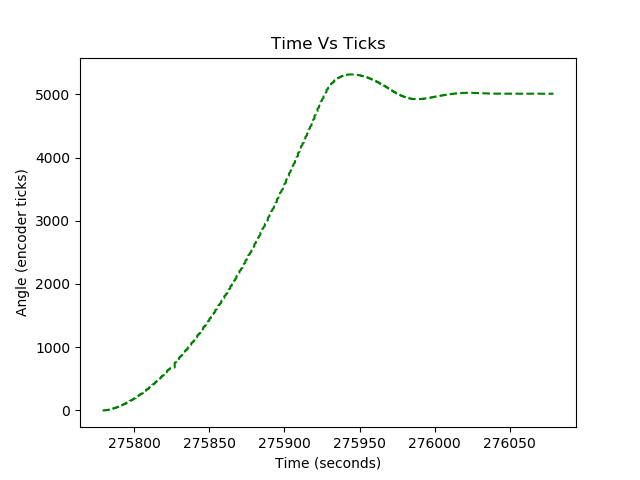
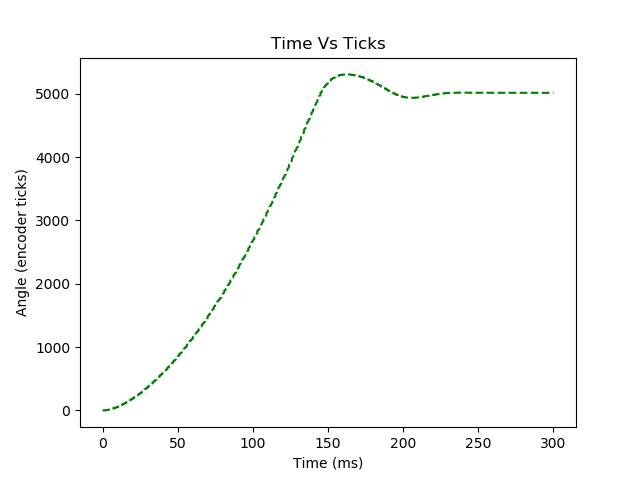
graphs

diff --git a/controller.py b/controller.py
@@ -35,6 +35,7 @@ class Controller:
         self._setpoint= setpoint
         self._time_list = []
         self._pos_list = []
+        self._start_time = int(utime.ticks_ms())
         
           
     ## Computes the actuation signal to be sent to the motor driver
@@ -45,8 +46,8 @@ class Controller:
     def calculate(self, position):
         
         # compute error and output
-        self._error = self.setpoint - position
-        self._output = self.kp * self._error
+        self._error = self._setpoint - position
+        self._output = self._kp * self._error
 
         # saturation
         if (self._output > 100) :
@@ -54,7 +55,7 @@ class Controller:
         elif (self._output < -100) :
             self._output = -100
 
-        self._time_list.append(int(utime.ticks_ms()))
+        self._time_list.append(int(utime.ticks_ms()) - self._start_time)
         self._pos_list.append(position)
 
         return self._output
@@ -89,6 +90,7 @@ class Controller:
 
         self._time_list = []
         self._pos_list = []
+        self._start_time = int(utime.ticks_ms())
 
 
 

diff --git a/main.py b/main.py
@@ -24,6 +24,7 @@ def main():
             start_time = utime.ticks_ms()
             encoder1.zero()
             control.clear_list()
+            control.clear_list()
             while (start_time + control_duration) > utime.ticks_ms():
                 pwm = control.calculate(encoder1.get_position())
                 motor1.set_duty_cycle(pwm)
@@ -32,6 +33,7 @@ def main():
             control.clear_list()
             print("end")
         elif (key_float):
+            control.clear_list()
             print("setting gain to: " + str(key_float))
             print("end")
             control.set_gain(key_float)

diff --git a/serial_test.py b/serial_test.py
@@ -52,7 +52,8 @@ while True :
         
         pyplot.plot (xValues, yValues, 'g--')
         print("printing plot")
-        pyplot.xlabel ("Time (seconds)")
+        pyplot.xlabel ("Time (ms)")
         pyplot.ylabel ("Angle (encoder ticks)")
         pyplot.title ("Time Vs Ticks")
         pyplot.show()
+        graphingList = []
